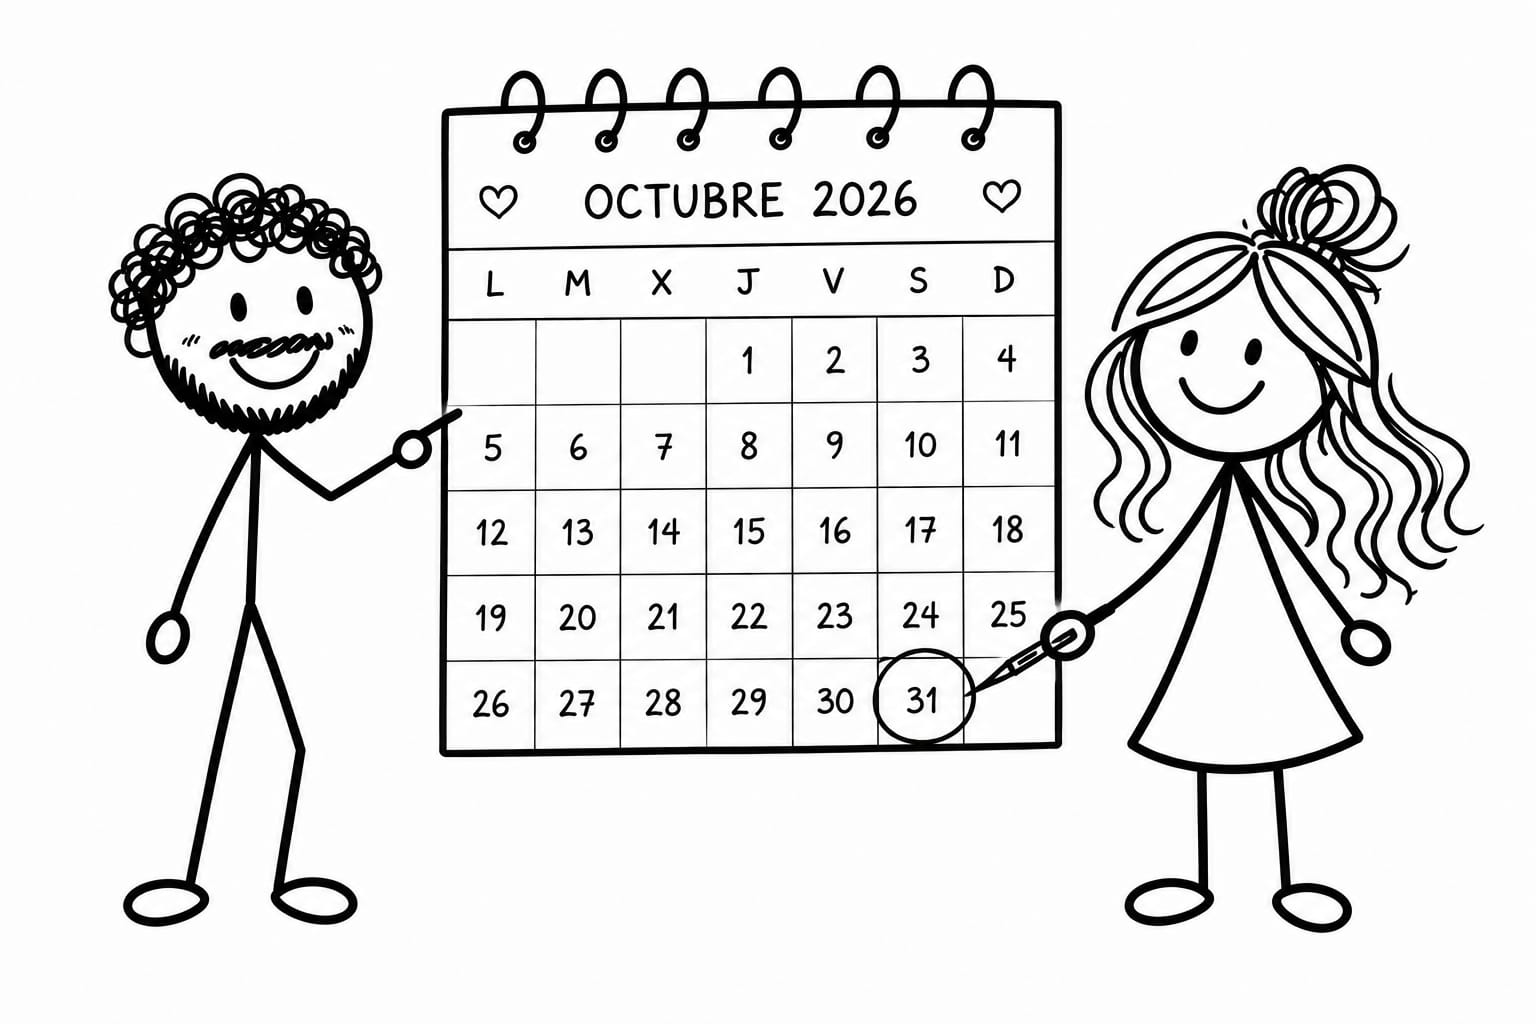
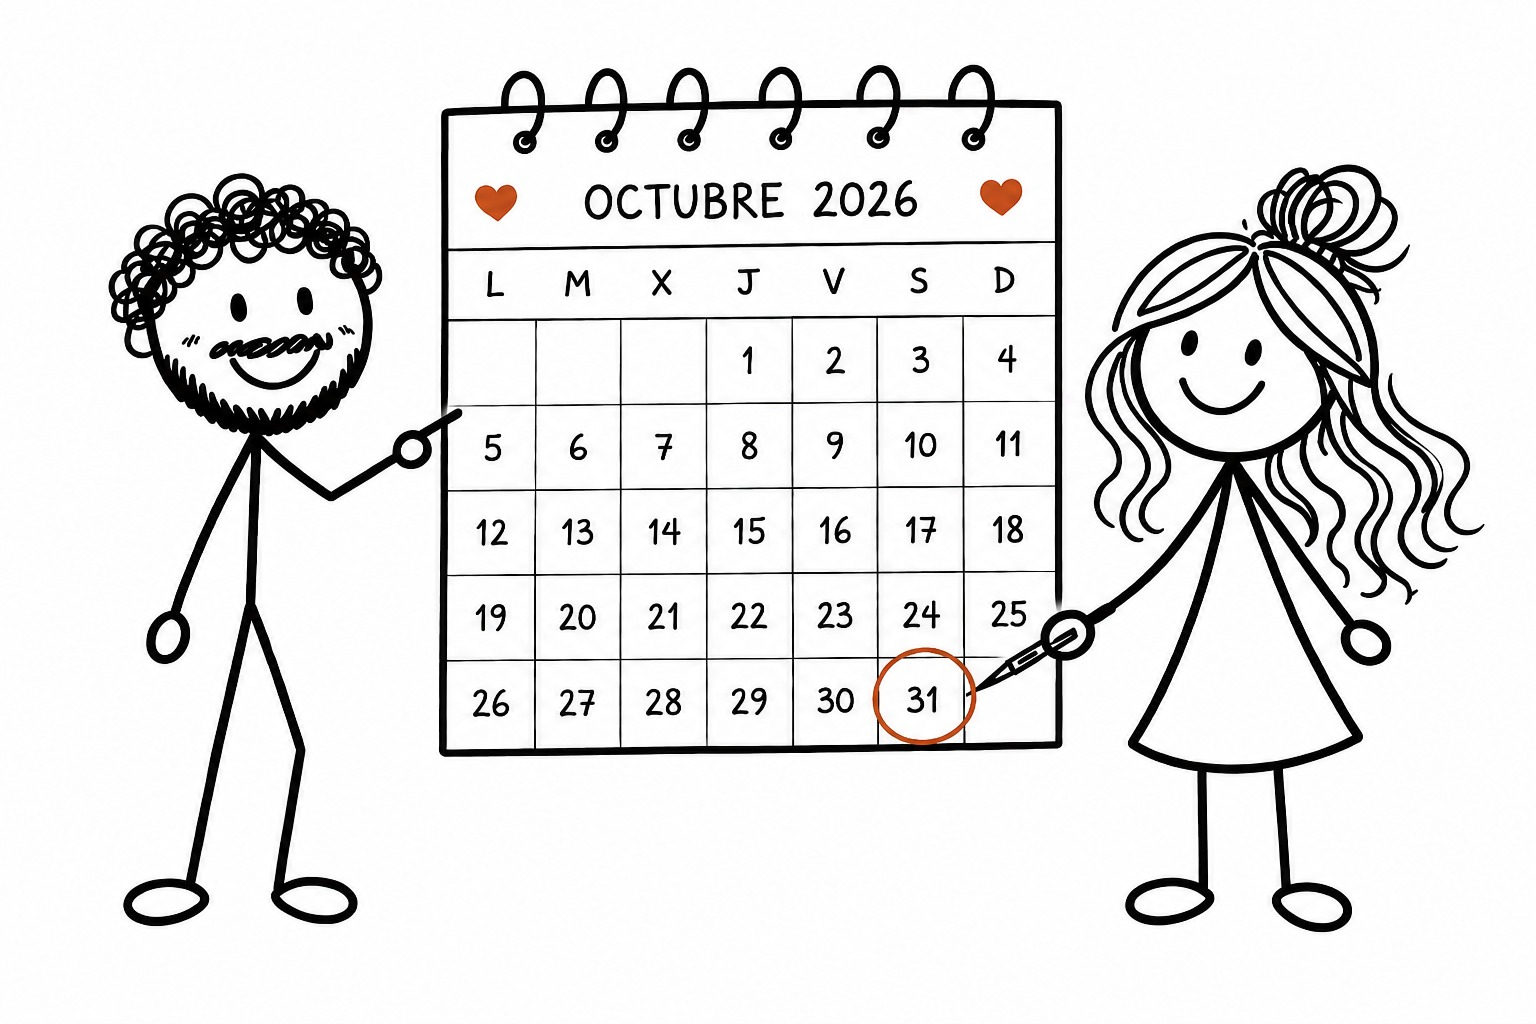
refactor: several cosmetic changes and adding photos

diff --git a/index.html b/index.html
@@ -28,8 +28,7 @@
       <ul class="nav-links" id="navLinks">
         <li><a href="#fecha-lugar">Fecha &amp; lugar</a></li>
         <li><a href="#programa">El plan</a></li>
-        <li><a href="#autobus">Guagua</a></li>
-        <li><a href="#alojamiento">Alojamiento</a></li>
+        <li><a href="#autobus">Logística</a></li>
         <li><a href="#fotos">Fotos</a></li>
         <li><a href="#regalos">Lista de bodas</a></li>
         <li><a href="#confirmacion">Confirmación</a></li>
@@ -130,52 +129,7 @@
             <h3 class="programa-col-title">La boda</h3>
             <!-- <p class="programa-col-sub">El gran día</p> -->
           </div>
-          <div class="timeline">
-            <div class="tl-item">
-              <div class="tl-time">12:30</div>
-              <div class="tl-dot"></div>
-              <div class="tl-body">
-                <h3>Llegada de invitados</h3>
-              </div>
-            </div>
-            <div class="tl-item">
-              <div class="tl-time">13:00</div>
-              <div class="tl-dot"></div>
-              <div class="tl-body">
-                <h3>Ceremonia</h3>
-                <img src="/images/boda.jpeg" alt="Ceremonia" class="timeline-img" />
-              </div>
-            </div>
-            <div class="tl-item">
-              <div class="tl-time">14:00</div>
-              <div class="tl-dot"></div>
-              <div class="tl-body">
-                <h3>Cóctel</h3>
-              </div>
-            </div>
-            <div class="tl-item">
-              <div class="tl-time">16:00</div>
-              <div class="tl-dot"></div>
-              <div class="tl-body">
-                <h3>Banquete</h3>
-              </div>
-            </div>
-            <div class="tl-item">
-              <div class="tl-time">20:00</div>
-              <div class="tl-dot"></div>
-              <div class="tl-body">
-                <h3>Fiesta</h3>
-                <img src="/images/baile.jpeg" alt="Fiesta" class="timeline-img" />
-              </div>
-            </div>
-            <div class="tl-item">
-              <div class="tl-time">00:00</div>
-              <div class="tl-dot"></div>
-              <div class="tl-body">
-                <h3>Fin</h3>
-              </div>
-            </div>
-          </div>
+            <img src="/images/boda.jpeg" alt="La boda" class="programa-boda-img" />
         </div>
 
       </div>
@@ -189,12 +143,11 @@
       <span class="section-tag">Logística</span>
       <h2 class="section-title">Transporte</h2>
       <p class="section-intro">Organizaremos un servicio de guaguas que hará distintas paradas en el Puerto de la Cruz.
-        Lo confirmaremos más adelante</p>
+        Lo confirmaremos más adelante.</p>
       <img src="/images/transporte.jpeg" alt="Transporte" class="bus-img" />
       <div class="bus-grid">
         <div class="bus-card">
           <div class="bus-route">
-            <span class="bus-icon">🚌</span>
             <div>
               <h3>Guagua</h3>
               <p class="bus-stop">Ruta por los hoteles de los invitados</p>
@@ -224,7 +177,6 @@
         </div>
         <div class="bus-card">
           <div class="bus-route">
-            <span class="bus-icon">🚕</span>
             <div>
               <h3>Taxis</h3>
               <p class="bus-stop">Compañías locales</p>
@@ -239,6 +191,16 @@
               <span class="bus-label">Radio Taxi</span>
               <span class="bus-hour">922 255 555</span>
             </div>
+          </div>
+        </div>
+        <div class="bus-card">
+          <div class="bus-route">
+            <div>
+              <h3>Parking</h3>
+            </div>
+          </div>
+          <div class="bus-times">
+            <p class="bus-stop">La finca cuenta con un gran parking en el que podéis aparcar si venís en coche.</p>
           </div>
         </div>
       </div>
@@ -260,7 +222,6 @@
       <div class="hotel-grid">
         <div class="hotel-card">
           <div class="hotel-info">
-            <span class="hotel-icon">🏨</span>
             <div>
               <h3>Hotel Semiramis</h3>
               <p class="hotel-stars">★★★★★</p>
@@ -274,7 +235,6 @@
         </div>
         <div class="hotel-card">
           <div class="hotel-info">
-            <span class="hotel-icon">🏨</span>
             <div>
               <h3>Hotel Taoro</h3>
               <p class="hotel-stars">★★★★</p>
@@ -288,7 +248,6 @@
         </div>
         <div class="hotel-card">
           <div class="hotel-info">
-            <span class="hotel-icon">🏨</span>
             <div>
               <h3>Hotel Las Águilas</h3>
               <p class="hotel-stars">★★★★</p>
@@ -309,6 +268,7 @@
     <div class="section-inner">
       <!-- <span class="section-tag">Código de vestimenta</span> -->
       <h2 class="section-title">Dresscode</h2>
+      <img src="/images/dresscode.jpeg" alt="Dresscode" class="hotel-img" />
       <p class="section-intro">¡Podéis venir como queráis! Guapos, cómodos y, sobre todo, felices. Sobre los tacones,
         tened en cuenta que la ceremonia y el cóctel serán en zona de jardín.</p>
     </div>
@@ -323,35 +283,38 @@
         <div class="carousel" id="carousel">
           <div class="carousel-track" id="carouselTrack">
             <div class="carousel-slide">
-              <img src="/images/carousel-1.jpg"
-                onerror="this.onerror=null;this.src='https://images.unsplash.com/photo-1519741497674-611481863552?w=800&q=80'"
-                alt="Foto 1" loading="lazy" />
+              <img src="/images/carousel-1.jpg" alt="Foto 1" loading="lazy" />
             </div>
             <div class="carousel-slide">
-              <img src="/images/carousel-2.jpg"
-                onerror="this.onerror=null;this.src='https://images.unsplash.com/photo-1511285560929-80b456fea0bc?w=800&q=80'"
-                alt="Foto 2" loading="lazy" />
+              <img src="/images/carousel-2.jpg" alt="Foto 2" loading="lazy" />
             </div>
             <div class="carousel-slide">
-              <img src="/images/carousel-3.jpg"
-                onerror="this.onerror=null;this.src='https://images.unsplash.com/photo-1507504031003-b417219a0fde?w=800&q=80'"
-                alt="Foto 3" loading="lazy" />
-            </div>
-            <!-- <div class="carousel-slide">
-              <img src="/images/carousel-4.jpg"
-                onerror="this.onerror=null;this.src='https://images.unsplash.com/photo-1583939003579-730e3918a45a?w=800&q=80'"
-                alt="Foto 4" loading="lazy" />
+              <img src="/images/carousel-3.jpg" alt="Foto 3" loading="lazy" />
             </div>
             <div class="carousel-slide">
-              <img src="/images/carousel-5.jpg"
-                onerror="this.onerror=null;this.src='https://images.unsplash.com/photo-1465495976277-4387d4b0b4c6?w=800&q=80'"
-                alt="Foto 5" loading="lazy" />
+              <img src="/images/carousel-4.jpeg" alt="Foto 4" loading="lazy" />
             </div>
             <div class="carousel-slide">
-              <img src="/images/carousel-6.jpg"
-                onerror="this.onerror=null;this.src='https://images.unsplash.com/photo-1606800052052-a08af7148866?w=800&q=80'"
-                alt="Foto 6" loading="lazy" />
-            </div> -->
+              <img src="/images/carousel-5.jpeg" alt="Foto 5" loading="lazy" />
+            </div>
+            <div class="carousel-slide">
+              <img src="/images/carousel-6.jpeg" alt="Foto 6" loading="lazy" />
+            </div>
+            <div class="carousel-slide">
+              <img src="/images/carousel-7.jpeg" alt="Foto 7" loading="lazy" />
+            </div>
+            <div class="carousel-slide">
+              <img src="/images/carousel-8.jpeg" alt="Foto 8" loading="lazy" />
+            </div>
+            <div class="carousel-slide">
+              <img src="/images/carousel-9.jpeg" alt="Foto 9" loading="lazy" />
+            </div>
+            <div class="carousel-slide">
+              <img src="/images/carousel-10.jpeg" alt="Foto 10" loading="lazy" />
+            </div>
+            <div class="carousel-slide">
+              <img src="/images/carousel-11.jpeg" alt="Foto 11" loading="lazy" />
+            </div>
           </div>
         </div>
         <button class="carousel-btn carousel-prev" id="carouselPrev" aria-label="Anterior">&#8592;</button>
@@ -366,15 +329,9 @@
     <div class="section-inner">
       <!-- <span class="section-tag">Un detalle</span> -->
       <h2 class="section-title">Lista de bodas</h2>
-      <p class="section-intro">El mejor regalo es que nos acompañéis en un día tan especial. Sin embargo, si queréis
-        ayudarnos para que nos vayamos muy lejos en nuestra luna de miel, aquí tenéis nuestro número de cuenta:</p>
+      <p class="section-intro">El mejor regalo es que nos acompañéis en un día tan especial. Sin embargo, si queréis ayudarnos para que nos vayamos muy lejos en nuestra luna de miel, aquí tenéis nuestro número de cuenta:</p>
 
-      <div class="gift-card">
-        <div class="gift-icon">🎁</div>
-        <h3 class="gift-title">Nuestra Cuenta</h3>
         <div class="gift-account">ES12 3456 7890 1234 5678 9012</div>
-        <p class="gift-names">Sandra y Jose</p>
-      </div>
     </div>
   </section>
 
@@ -384,7 +341,7 @@
       <span class="section-tag">Os esperamos</span>
       <h2 class="section-title">Confirmación de asistencia</h2>
       <img src="/images/formulario.jpeg" alt="Confirmación" class="rsvp-img" />
-      <p class="section-intro">Por favor, confirmad vuestra asistencia antes del 15 de julio de 2026.
+      <p class="section-intro">Por favor, confirmad vuestra asistencia antes del 15 de agosto de 2026.
       </p>
       <form class="rsvp-form" id="rsvpForm" novalidate>
         <div class="form-row">
@@ -440,13 +397,11 @@
   <!-- CONTACTO -->
   <section id="contacto" class="section">
     <div class="section-inner">
-      <span class="section-tag">Hablad con nosotros</span>
       <h2 class="section-title">Contacto</h2>
-      <p class="section-intro">Si tenéis cualquier duda, aquí nos tenéis.</p>
       <div class="contact-grid">
 
         <div class="contact-card">
-          <div class="contact-avatar">💍</div>
+          <img src="/images/sandra.jpg" alt="Sandra" class="contact-avatar-img" />
           <div class="contact-info">
             <h3 class="contact-name">Sandra</h3>
             <p class="contact-role">La novia</p>
@@ -457,7 +412,7 @@
         </div>
 
         <div class="contact-card">
-          <div class="contact-avatar">🤵</div>
+          <img src="/images/jose.jpg" alt="Jose" class="contact-avatar-img" />
           <div class="contact-info">
             <h3 class="contact-name">Jose</h3>
             <p class="contact-role">El novio</p>

diff --git a/src/style.css b/src/style.css
@@ -502,6 +502,15 @@ ul {
   display: block;
 }
 
+.programa-boda-img {
+  width: 100%;
+  height: auto;
+  object-fit: contain;
+  border-radius: var(--radius);
+  border: 2px solid #111;
+  display: block;
+}
+
 .fl-card h3 {
   font-family: var(--ff-serif);
   font-size: 1.3rem;
@@ -774,7 +783,7 @@ ul {
 
 @media (min-width: 600px) {
   .bus-grid {
-    grid-template-columns: repeat(2, 1fr);
+    grid-template-columns: repeat(3, 1fr);
   }
 }
 
@@ -813,7 +822,7 @@ ul {
 }
 
 .bus-stop {
-  font-size: .78rem;
+  font-size: .9rem;
   color: var(--c-text-muted);
   margin-top: .2rem;
 }
@@ -1060,6 +1069,7 @@ ul {
   width: 100%;
   height: 100%;
   object-fit: cover;
+  object-position: center 40%;
 }
 
 .carousel-btn {
@@ -1293,6 +1303,15 @@ ul {
   justify-content: center;
 }
 
+.contact-avatar-img {
+  flex-shrink: 0;
+  width: 52px;
+  height: 52px;
+  border: 1px solid var(--c-border);
+  border-radius: 50%;
+  object-fit: cover;
+}
+
 .contact-info {
   display: flex;
   flex-direction: column;
@@ -1378,7 +1397,7 @@ ul {
 
 .footer-hearts {
   font-size: 1.5rem;
-  color: var(--c-rose);
+  color: #E35336;
   margin-top: .5rem;
 }
 
